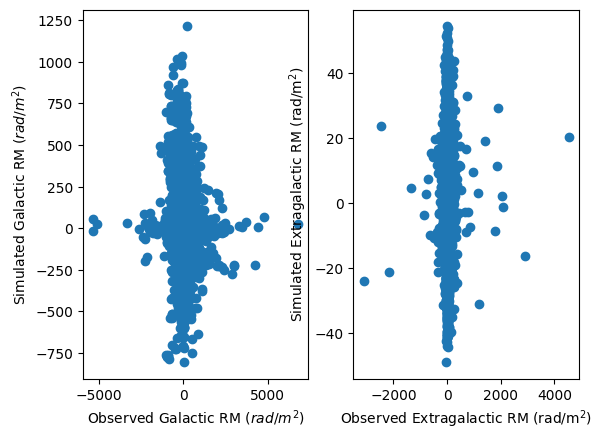
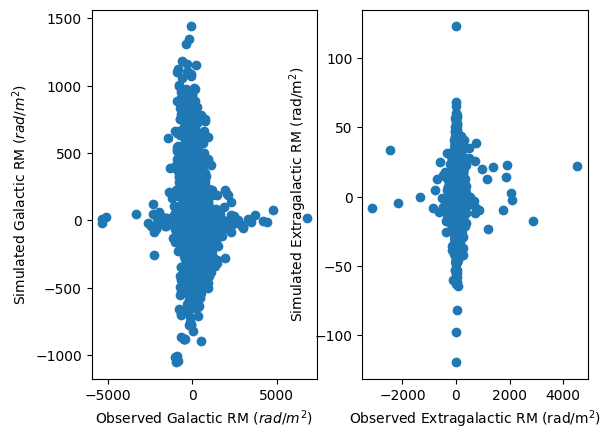
Typo in noise covariance matrix, RM uncertainty sampled from observed uncertainty.

diff --git a/catalog_maker.py b/catalog_maker.py
@@ -36,7 +36,6 @@ class CatalogMaker():
         b45_indices=np.where(abs(data['b'])>45.0)[0]
         np.random.seed(seed=self.params['params_mock_cat.maker_params.seed'])
         z_mock_indices=np.unique(np.random.choice(b45_indices, size=los))
-        #z_mock_indices=np.unique(self.rng.choice(b45_indices, size=los))
         print('Number of LOS', len(z_mock_indices) )
 
 
@@ -87,7 +86,6 @@ class CatalogMaker():
             plot.add(dm, vmin=-250, vmax=250)
             plot.add(b, vmin=-2.50, vmax=2.50)
             plot.output(name='Mock_cat_Seb23_dm_b.png')
-            #plt.savefig('Mock_cat_Seb23_dm_b.png', bbox_inches='tight')
 
         else: #CONSISTENT catalog
             galactic_model = U.get_galactic_model(sky_domain, self.params)
@@ -111,16 +109,10 @@ class CatalogMaker():
         
         emodel = Egf.ExtraGalModel(egal_data_domain, egal_model_params)
 
-        #egal_mock_position = ift.from_random(emodel.get_model().domain, 'normal')
         egal_mock_position = ift.full(emodel.get_model().domain, 0.0)
         print(f'mock:{egal_mock_position.val}')
 
-        ### Specify noise
-        noise_eg = self.params['params_mock_cat.maker_params.noise_eg']
-        noise_gal = self.params['params_mock_cat.maker_params.noise_gal']
-
-        print('EG Noise std =', noise_eg)
-        print('Gal Noise std =', noise_gal)
+ 
 
         rm_data=np.array(eg_gal_data.val)
         delta_rm_list=[]
@@ -142,32 +134,30 @@ class CatalogMaker():
                     else:
                         rm_data[item] += delta_rm
                         delta_rm_list.append(delta_rm)
-                    #if np.abs(eg_b[item])>=25.0:
-                    #    mu_rm=0.0 #(2.5)
-                    #    sigma_rm=25.0
-                    #    delta_rm=np.random.normal(mu_rm, sigma_rm)
-                    #    rm_data[item] += delta_rm
-                    #    delta_rm_list.append(delta_rm)
-                    #else:
-                    #    sigma_rm= 800.0*np.exp(-np.abs(eg_b[item])**(1/3.0)) 
-                    #    mu_rm=0.0 
-                    #    delta_rm=np.random.normal(mu_rm, sigma_rm)
-                    #    if random.choice('+-')=='-':
-                    #        rm_data[item] -= delta_rm
-                    #        delta_rm_list.append(-delta_rm)
-                    #    else:
-                    #        rm_data[item] += delta_rm
-                    #        delta_rm_list.append(delta_rm) 
-
-
-
                 
             delta_rm_array=np.array(delta_rm_list)
             plt.scatter(eg_b[npi_indices], delta_rm_array)
             plt.savefig('Delta_rm.png', bbox_inches='tight')
 
-        N_eg = ift.ScalingOperator(ift.UnstructuredDomain(lerm), noise_eg, np.float64)
-        N_gal = ift.ScalingOperator(ift.UnstructuredDomain(ltheta-lerm), noise_gal, np.float64)
+        
+
+        #creating mock sigma gal
+        #NVSS cat 2009ApJ...702.1230T
+        #LoTSS cat "LoTSS DR2 (O'Sullivan et al. 2022)"
+        cat_index_gal=np.where(data['catalog']==self.params['params_mock_cat.maker_params.cat_gal'])[0][~np.isnan(np.where(data['catalog']==self.params['params_mock_cat.maker_params.cat_gal'])[0])]
+        sigma_gal = data['rm_err'][cat_index_gal]
+        histogram_sigma_gal = rv_histogram(np.histogram(sigma_gal, bins=10000), density=False)
+        sigma_gal_mock=histogram_sigma_gal.rvs(size=ltheta-lerm)
+        sigma_gal_mock_field=ift.Field.from_raw(ift.UnstructuredDomain(ltheta-lerm),np.array(sigma_gal_mock))
+        N_gal = ift.DiagonalOperator(sigma_gal_mock_field**2, domain=ift.UnstructuredDomain(ltheta-lerm), sampling_dtype=np.float64)
+
+        #creating mock sigma eg
+        cat_index_eg=np.where(data['catalog']==self.params['params_mock_cat.maker_params.cat_eg'])[0][~np.isnan(np.where(data['catalog']==self.params['params_mock_cat.maker_params.cat_eg'])[0])]
+        sigma_eg = data['rm_err'][cat_index_eg]
+        histogram_sigma_eg = rv_histogram(np.histogram(sigma_eg, bins=100), density=False)
+        sigma_eg_mock=histogram_sigma_eg.rvs(size=lerm)
+        sigma_eg_mock_field=ift.Field.from_raw(ift.UnstructuredDomain(lerm),np.array(sigma_eg_mock))
+        N_eg = ift.DiagonalOperator(sigma_eg_mock_field**2, domain=ift.UnstructuredDomain(lerm), sampling_dtype=np.float64)
 
         ### rm data assembly ###
         rm_data[np.isnan(data['z_best'])] +=  N_gal.draw_sample().val
@@ -177,16 +167,15 @@ class CatalogMaker():
         if self.params['params_mock_cat.maker_params.eg_on']==1:
             np.random.seed(seed=self.params['params_mock_cat.maker_params.seed'])
             rand_rm=np.random.normal(0.0, 1.0,len(e_rm))
-            #rand_rm=self.rng.normal(0.0, 1.0,len(e_rm))
             egal_contr = emodel.get_model().sqrt()(egal_mock_position).val*rand_rm
             rm_data[z_indices]+=egal_contr + N_eg.draw_sample().val
             print('std',np.std(egal_contr))
             print('mean',np.mean(egal_contr))
 
-        #rm_data_field=ift.makeField(ift.UnstructuredDomain(ltheta), rm_data)
         noised_rm_data=ift.makeField(ift.UnstructuredDomain(ltheta), rm_data)
-
-        #noised_rm_data = rm_data_field + N.draw_sample()
+        #Print noise
+        print('Gal noise', N_gal.draw_sample().val.std())
+        print('Egal noise', N_eg.draw_sample().val.std())
 
         #Plot 1
         plot = ift.Plot()
@@ -208,8 +197,8 @@ class CatalogMaker():
         plt.savefig('Mock_cat_obs_vs_sim.png', bbox_inches='tight')
 
         data['rm'] = np.array(noised_rm_data.val)
-        data['rm_err'][np.isnan(data['z_best'])] =  noise_gal*np.ones(ltheta-lerm)
-        data['rm_err'][~np.isnan(data['z_best'])] =  noise_eg*np.ones(lerm)
+        data['rm_err'][np.isnan(data['z_best'])] =  sigma_gal_mock*np.ones(ltheta-lerm)
+        data['rm_err'][~np.isnan(data['z_best'])] =  sigma_eg_mock*np.ones(lerm)
         
         hdu= fits.open(self.params['params_inference.cat_path']+'master_catalog_vercustom.fits')
         hdu[1].data['rm'][np.where(hdu[1].data['type']!='Pulsar')] = data['rm']

diff --git a/settings_maker.py b/settings_maker.py
@@ -95,17 +95,17 @@ class Settings_Maker():
                                             phi=data['phi'][~z_indices],
                                             domain=sky_domain, target=gal_data_domain)
 
+       
 
         #to use when inference on the noise factors is necessary
         if self.params['params_mock_cat.maker_params.npi']==1:
         # Possible all sky variation of alpha, requires pygedm package 
-            #alpha = 2.5
-            #log_ymw = np.log(Egf.load_ymw_sky('./data/', nside=params['params_inference.nside'], model='ymw16', mode='mc'))
-            #log_ymw /= log_ymw.min()
-            #log_ymw *= 5
-            #alpha = implicit_response(ift.Field(ift.makeDomain(implicit_response.domain), log_ymw)).val
-            alpha = 1.0 
-
+            alpha = 2.5
+            log_ymw = np.log(Egf.load_ymw_sky('./data/', nside=params['params_inference.nside'], model='ymw16', mode='mc'))
+            log_ymw /= log_ymw.min()
+            log_ymw *= 5
+            alpha = implicit_response(ift.Field(ift.makeDomain(implicit_response.domain), log_ymw)).val
+            
             implicit_noise = Egf.SimpleVariableNoise(gal_data_domain, alpha=alpha, q='mode', noise_cov=gal_stddev**2).get_model()
         # build the full model and connect it to the likelihood
 
@@ -117,6 +117,7 @@ class Settings_Maker():
             implicit_likelihood = ift.VariableCovarianceGaussianEnergy(domain=gal_data_domain, residual_key='residual',
                                                                 inverse_covariance_key='icov',
                                                                    sampling_dtype=np.dtype(np.float64)) @ n_res
+           
 
         else:
         #to use with perfect noise knowledge

diff --git a/src/helper_functions/minimizer.py b/src/helper_functions/minimizer.py
@@ -45,6 +45,11 @@ class Minimizer():
                     if sky_name not in minimizer_params['power_spectra']:
                         power_plotting(sky, [s for s in latest_sample_list.iterator()], sky_name, minimizer_params['plot_path'], string=ident,
                                         from_power_model=False, **minimizer_params['plotting_kwargs'].get(sky_name, {}))
+            
+            if minimizer_params['eta'] is not None:
+                for sky_name, sky in minimizer_params['eta'].items():
+                    ift.plot(sky)
+            
             if minimizer_params['power_spectra'] is not None:
                 for power_name, power in minimizer_params['power_spectra'].items():
                     power_plotting(power, [s for s in latest_sample_list.iterator()], power_name, minimizer_params['plot_path'], string=ident,
